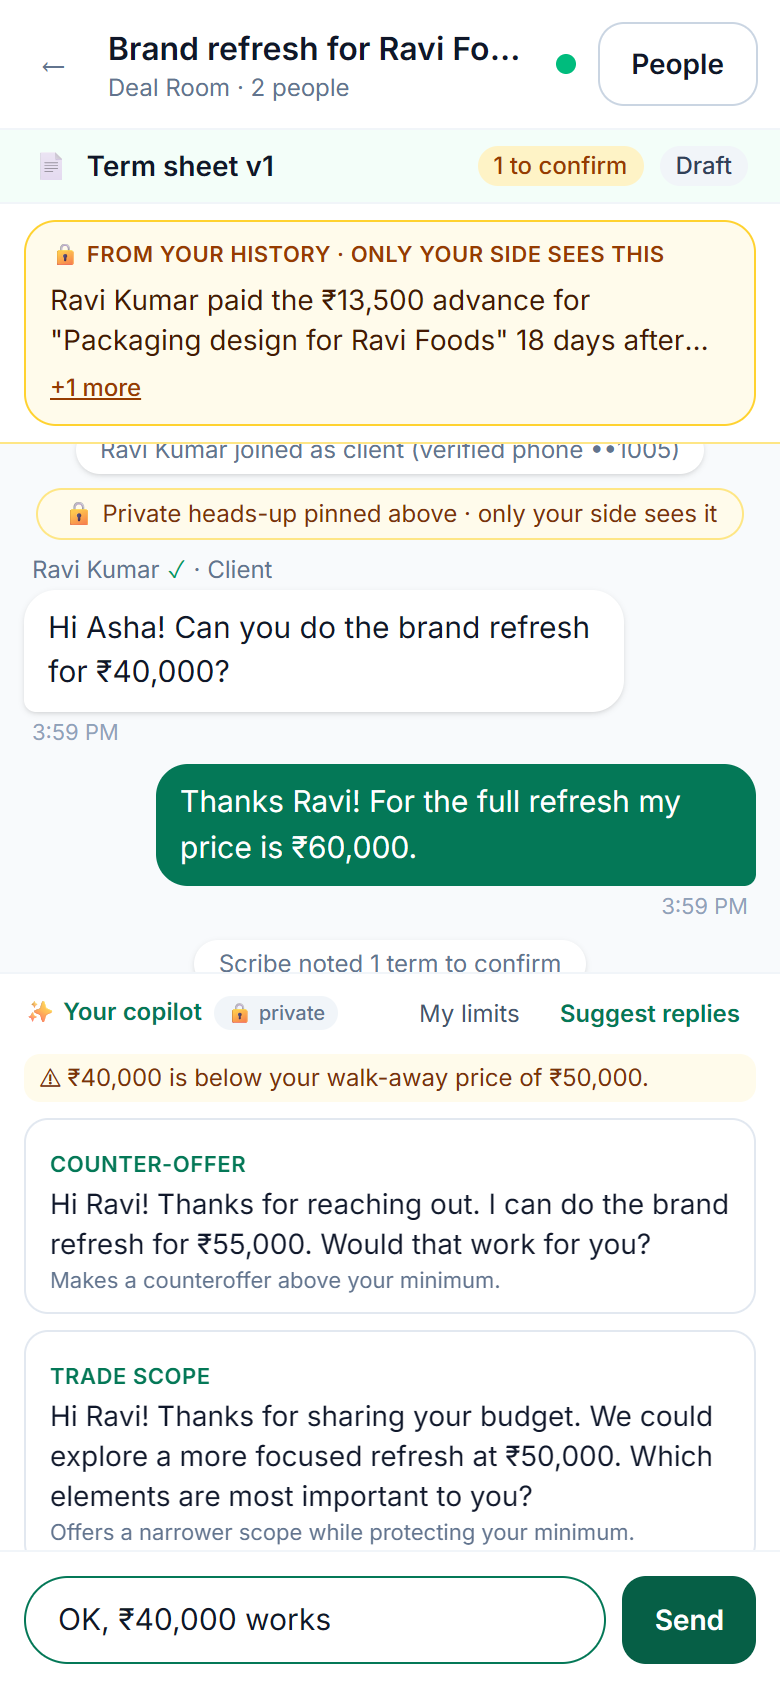
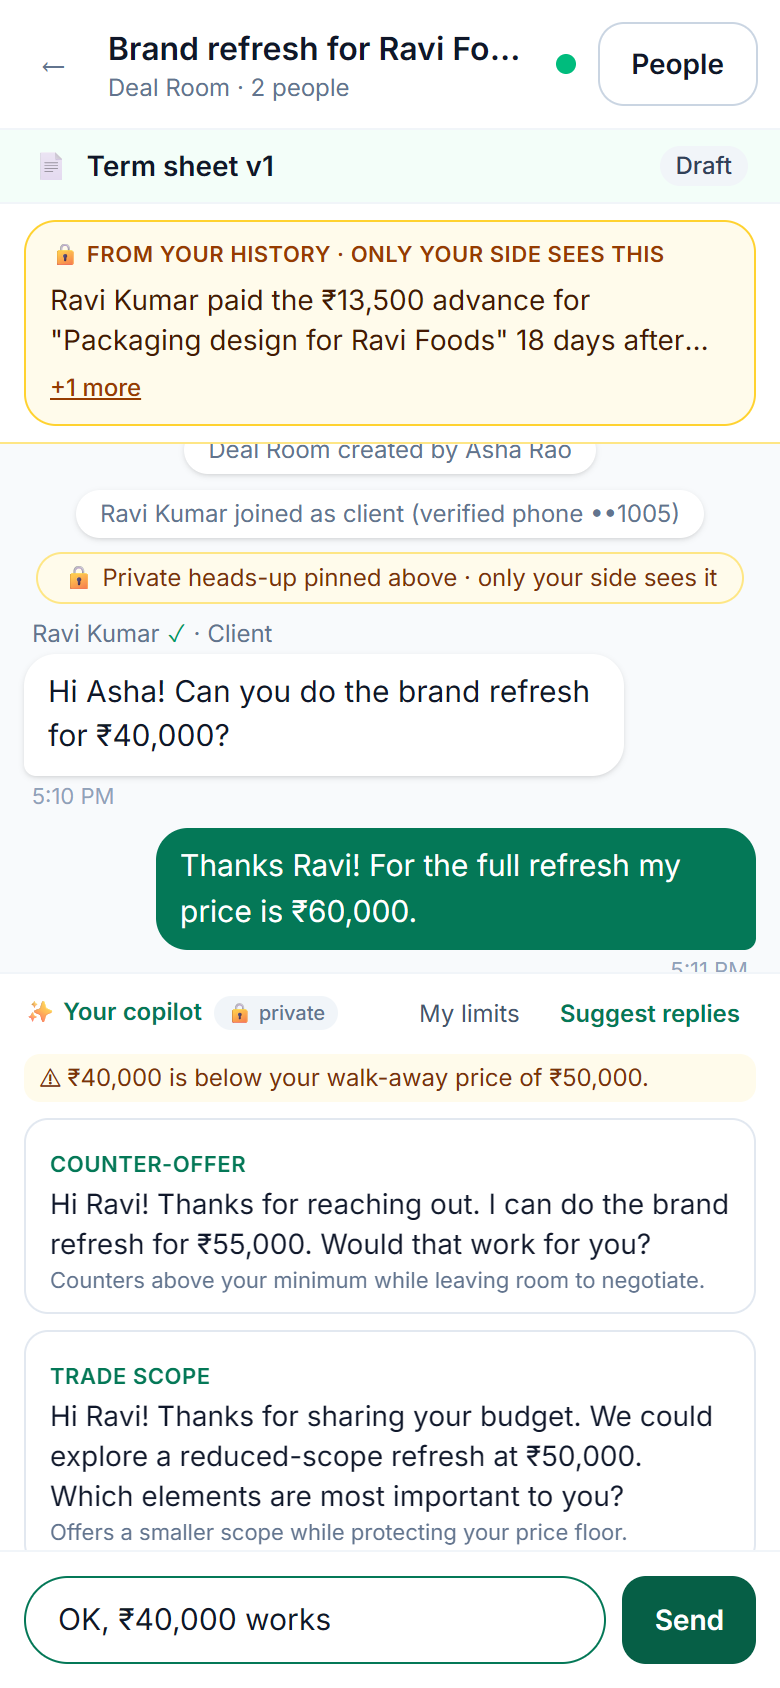
Copilot is for the freelancer's side only; clients get the term sheet card, OTP signing and a verified payment link
- Copilot suggest, feedback and private limits return 403 for the client side; no model call is made for them
- Clients keep the clause explainer and the pre-send safety warnings (OTPs or bank details in chat)
- Tests, demo script, README, technical doc, privacy notice and screenshots updated

diff --git a/apps/web/src/pages/RoomPage.tsx b/apps/web/src/pages/RoomPage.tsx
@@ -398,7 +398,20 @@ export default function RoomPage() {
             <ErrorText>{error}</ErrorText>
           </div>
         )}
-        {isDeal && room?.my_side && (
+        {isDeal && room?.my_side === 'client' && warnings.length > 0 && (
+          <ul className="space-y-1 border-t border-slate-100 bg-white px-3 pt-2" aria-live="polite">
+            {warnings.map((w) => (
+              <li
+                key={w.code}
+                className={`rounded-lg px-2 py-1 text-xs ${w.level === 'warn' ? 'bg-amber-50 text-amber-900' : 'bg-slate-50 text-slate-600'}`}
+              >
+                {w.level === 'warn' ? '⚠ ' : 'ℹ '}
+                {w.message}
+              </li>
+            ))}
+          </ul>
+        )}
+        {isDeal && room?.my_side === 'provider' && (
           <CopilotBar
             roomId={roomId}
             side={room.my_side}

diff --git a/apps/web/src/pages/JoinPage.tsx b/apps/web/src/pages/JoinPage.tsx
@@ -65,7 +65,7 @@ export default function JoinPage() {
         <ul className="space-y-2 rounded-2xl bg-slate-50 p-4 text-sm text-slate-700">
           <li>You will see only this room, never their other deals.</li>
           <li>Everyone in the room sees your name and the last 4 digits of your verified phone.</li>
-          <li>Your AI copilot is private to you; the other side never sees it.</li>
+          <li>What you agree becomes a term sheet you both sign with an OTP, and you pay through a verified link.</li>
         </ul>
         <ErrorText>{error}</ErrorText>
         <Button onClick={() => void accept()} busy={busy}>

diff --git a/apps/web/src/pages/Privacy.tsx b/apps/web/src/pages/Privacy.tsx
@@ -24,7 +24,7 @@ const SECTIONS: { title: string; body: string[] }[] = [
     title: 'Who can see it',
     body: [
       'People in a room see that room only. Guests never see a team’s other rooms.',
-      'Your AI copilot, private floor price and notes are visible only to you.',
+      'The AI copilot, private floor price and notes are visible only to their owner on the freelancer side.',
       'Bank and UPI details are encrypted at rest and shown masked to the last 4 characters.',
       'Chat is delivered through Nexconn, our messaging provider. We do not sell your data.',
     ],

diff --git a/services/api/tests/test_copilot.py b/services/api/tests/test_copilot.py
@@ -9,10 +9,9 @@ OPTIONS = [
 
 def _profiles(client, owner, guest, room):
     url = f"/api/rooms/{room['id']}/copilot/profile"
-    client.put(url, json={"walk_away_paise": 4_500_000, "notes": "FREELANCER-SECRET rent due"},
-               headers=owner["headers"])
-    client.put(url, json={"walk_away_paise": 5_500_000, "notes": "CLIENT-SECRET board approved 55k"},
-               headers=guest["headers"])
+    r = client.put(url, json={"walk_away_paise": 4_500_000, "notes": "FREELANCER-SECRET rent due"},
+                   headers=owner["headers"])
+    assert r.status_code == 200
 
 
 def test_copilot_streams_options_and_records_suggestion(client, login_as, llm):
@@ -27,7 +26,7 @@ def test_copilot_streams_options_and_records_suggestion(client, login_as, llm):
     sid = events[-1].split('"suggestion_id": "')[1].split('"')[0]
     url = f"/api/rooms/{room['id']}/copilot/suggestions/{sid}/feedback"
     assert client.post(url, json={"chosen_index": 1, "outcome": "edited"}, headers=owner["headers"]).status_code == 204
-    assert client.post(url, json={"chosen_index": 1, "outcome": "sent"}, headers=guest["headers"]).status_code == 404
+    assert client.post(url, json={"chosen_index": 1, "outcome": "sent"}, headers=guest["headers"]).status_code == 403
 
 
 def test_copilot_offline_degrades_gracefully(client, login_as, llm):
@@ -37,18 +36,20 @@ def test_copilot_offline_degrades_gracefully(client, login_as, llm):
     assert r.status_code == 200 and "event: error" in r.text and "offline" in r.text
 
 
-def test_client_copilot_context_has_no_freelancer_side_data(client, login_as, llm):
+def test_copilot_is_only_for_the_freelancer_side(client, login_as, llm):
     owner, guest, _, room = setup_deal(client, login_as)
     _profiles(client, owner, guest, room)
-    say(client, owner, room, "Full kit is 60k.")
-    llm.queue("copilot", OPTIONS, OPTIONS)
-    client.post(f"/api/rooms/{room['id']}/copilot/suggest", json={}, headers=guest["headers"])
-    client.post(f"/api/rooms/{room['id']}/copilot/suggest", json={}, headers=owner["headers"])
-    guest_ctx, owner_ctx = [c["data"] for c in llm.calls if c["purpose"] == "copilot"]
-    assert "CLIENT-SECRET" in guest_ctx and "₹55,000" in guest_ctx
-    assert "FREELANCER-SECRET" not in guest_ctx and "₹45,000" not in guest_ctx
-    assert "FREELANCER-SECRET" in owner_ctx and "CLIENT-SECRET" not in owner_ctx and "₹55,000" not in owner_ctx
-    assert "untrusted_data" in guest_ctx
+    say(client, guest, room, "Can we do 50k?")
+    base = f"/api/rooms/{room['id']}/copilot"
+    assert client.post(f"{base}/suggest", json={}, headers=guest["headers"]).status_code == 403
+    assert client.get(f"{base}/profile", headers=guest["headers"]).status_code == 403
+    r = client.put(f"{base}/profile", json={"walk_away_paise": 5_500_000, "notes": "CLIENT"}, headers=guest["headers"])
+    assert r.status_code == 403
+    assert not [c for c in llm.calls if c["purpose"] == "copilot"], "no model call is made for the client"
+    llm.queue("copilot", OPTIONS)
+    assert client.post(f"{base}/suggest", json={}, headers=owner["headers"]).status_code == 200
+    owner_ctx = [c["data"] for c in llm.calls if c["purpose"] == "copilot"][0]
+    assert "FREELANCER-SECRET" in owner_ctx and "untrusted_data" in owner_ctx
 
 
 def test_presend_warns_but_never_blocks(client, login_as):
@@ -58,7 +59,7 @@ def test_presend_warns_but_never_blocks(client, login_as):
     codes = lambda who, text: {w["code"] for w in client.post(url, json={"draft": text}, headers=who["headers"]).json()}  # noqa: E731
     assert "below_walk_away" in codes(owner, "Okay, 40k final")
     assert codes(owner, "Okay, 50k final") == set()
-    assert "above_budget" in codes(guest, "We can stretch to 60k")
+    assert codes(guest, "We can stretch to 60k") == set()
     assert {"no_advance", "unlimited_revisions"} <= codes(owner, "No advance needed, unlimited revisions")
     assert "secret" in codes(guest, "my OTP is 482913")
     say(client, owner, room, "Okay, 40k final")

diff --git a/services/api/app/routers/copilot.py b/services/api/app/routers/copilot.py
@@ -54,10 +54,21 @@ class ExplainOut(C.ClauseExplanation):
     disclaimer: str = "General information, not legal advice."
 
 
+COPILOT_SIDE_ONLY = "The negotiation copilot is for the freelancer's side of the deal"
+
+
 def _participant(db: Session, user: User, room_id: str) -> tuple[Room, RoomMember]:
     room, _, member = room_access(db, user, room_id)
     require_deal_room(room)
     return room, require_participant(member)
+
+
+def _provider(db: Session, user: User, room_id: str) -> tuple[Room, RoomMember]:
+    """Reply suggestions and private limits are for the freelancer's side; clients get the contract and payment."""
+    room, member = _participant(db, user, room_id)
+    if member.side != "provider":
+        raise HTTPException(status.HTTP_403_FORBIDDEN, COPILOT_SIDE_ONLY)
+    return room, member
 
 
 def _sse(event: str, data: dict) -> str:
@@ -68,7 +79,7 @@ def _sse(event: str, data: dict) -> str:
 def suggest(room_id: str, body: SuggestIn, user: User = Depends(current_user), db: Session = Depends(get_db),
             llm: LLM = Depends(get_llm_dep)) -> StreamingResponse:
     """Streams up to three reply options as server-sent events, private to the caller."""
-    room, member = _participant(db, user, room_id)
+    room, member = _provider(db, user, room_id)
     role = getattr(membership_for(db, user.id, room.org_id), "role", None)
     data = C.build_context(db, room, user, member, llm, role).render()
     db.commit()
@@ -101,7 +112,7 @@ def suggest(room_id: str, body: SuggestIn, user: User = Depends(current_user), d
              dependencies=[Depends(rate_limit("feedback", 120, 60))])
 def feedback(room_id: str, suggestion_id: str, body: FeedbackIn, user: User = Depends(current_user),
              db: Session = Depends(get_db)) -> None:
-    room, _ = _participant(db, user, room_id)
+    room, _ = _provider(db, user, room_id)
     s = db.get(CopilotSuggestion, suggestion_id)
     if s is None or s.room_id != room.id or s.user_id != user.id:
         raise HTTPException(status.HTTP_404_NOT_FOUND, "Not found")

diff --git a/services/api/tests/test_memory.py b/services/api/tests/test_memory.py
@@ -50,10 +50,10 @@ def test_late_advance_warns_the_team_on_the_next_deal_only(client, login_as, sen
     say(client, guest, second, "Shall we start?")
     llm.queue("copilot", OPTIONS, OPTIONS)
     client.post(f"/api/rooms/{second['id']}/copilot/suggest", json={}, headers=owner["headers"])
-    client.post(f"/api/rooms/{second['id']}/copilot/suggest", json={}, headers=guest["headers"])
-    owner_ctx, guest_ctx = [c["data"] for c in llm.calls if c["purpose"] == "copilot"]
+    r = client.post(f"/api/rooms/{second['id']}/copilot/suggest", json={}, headers=guest["headers"])
+    assert r.status_code == 403
+    owner_ctx = [c["data"] for c in llm.calls if c["purpose"] == "copilot"][0]
     assert "15 days late" in owner_ctx
-    assert "15 days late" not in guest_ctx and "counterparty" not in guest_ctx
 
 
 def test_deal_outcome_becomes_team_playbook_not_client_memory(client, login_as, sent_codes, db, llm):
@@ -76,9 +76,11 @@ def test_deal_outcome_becomes_team_playbook_not_client_memory(client, login_as, 
     say(client, guest, second, "What would a website cost?")
     llm.queue("copilot", OPTIONS, OPTIONS)
     client.post(f"/api/rooms/{second['id']}/copilot/suggest", json={}, headers=owner["headers"])
-    client.post(f"/api/rooms/{second['id']}/copilot/suggest", json={}, headers=guest["headers"])
-    owner_ctx, guest_ctx = [c["data"] for c in llm.calls if c["purpose"] == "copilot"]
-    assert "was won" in owner_ctx and "was won" not in guest_ctx
+    r = client.post(f"/api/rooms/{second['id']}/copilot/suggest", json={}, headers=guest["headers"])
+    assert r.status_code == 403
+    owner_ctx = [c["data"] for c in llm.calls if c["purpose"] == "copilot"][0]
+    assert "was won" in owner_ctx
+    assert deal(client, guest, second)["counterparty_notes"] == []
 
 
 def test_memory_works_without_embeddings(client, login_as, sent_codes, db, llm):

diff --git a/services/api/app/routers/deals.py b/services/api/app/routers/deals.py
@@ -304,6 +304,8 @@ def decide(room_id: str, proposal_id: str, decision: str, user: User = Depends(c
 @router.get("/{room_id}/copilot/profile", response_model=ProfileOut)
 def get_profile(room_id: str, user: User = Depends(current_user), db: Session = Depends(get_db)) -> ProfileOut:
     room, member = _context(db, user, room_id)
+    if member.side != "provider":
+        raise HTTPException(status.HTTP_403_FORBIDDEN, "Private limits are for the freelancer's side of the deal")
     p = db.get(CopilotProfile, (room.id, user.id))
     return ProfileOut(side=member.side, walk_away_paise=p.walk_away_paise if p else None,
                       target_paise=p.target_paise if p else None, notes=p.notes if p else None)
@@ -314,6 +316,8 @@ def get_profile(room_id: str, user: User = Depends(current_user), db: Session = 
 def put_profile(room_id: str, body: ProfileIn, user: User = Depends(current_user),
                 db: Session = Depends(get_db)) -> ProfileOut:
     room, member = _context(db, user, room_id)
+    if member.side != "provider":
+        raise HTTPException(status.HTTP_403_FORBIDDEN, "Private limits are for the freelancer's side of the deal")
     p = db.get(CopilotProfile, (room.id, user.id)) or CopilotProfile(room_id=room.id, user_id=user.id)
     p.walk_away_paise, p.target_paise = body.walk_away_paise, body.target_paise
     p.notes = " ".join(body.notes.split()) if body.notes else None

diff --git a/services/api/app/demo.py b/services/api/app/demo.py
@@ -45,7 +45,7 @@ SCRIPT = [
     Step("Deal Room on two phones", "Phone A: Asha · Phone B: Ravi", (
         "Asha: + Deal Room “Brand refresh for Ravi Foods”, then People → Invite your client.",
         "Ravi opens the link on phone B and joins. Asha privately sees: Ravi paid the last advance 15 days late.",
-        "Asha: Limits → walk-away ₹50,000. Ravi: “Can you do it for ₹40,000?” Both get different copilot options.",
+        "Asha: Limits → walk-away ₹50,000. Ravi: “Can you do it for ₹40,000?” Asha's private copilot suggests replies.",
         "Asha types “OK, ₹40,000 works” and the pre-send check warns it is below her walk-away.",
         "Agree: “₹55,000, 40% advance, 3 weeks, 3 revisions”. Confirm the Scribe's terms; open the fair-price meter.",
         "Both sign with OTP, the sheet locks, Asha requests the advance and Ravi pays (simulated).",

diff --git a/services/api/tests/test_deal_room.py b/services/api/tests/test_deal_room.py
@@ -87,8 +87,8 @@ def test_private_profile_is_never_visible_to_the_other_side(client, login_as):
     r = client.put(url, json={"walk_away_paise": 4_500_000, "target_paise": 6_000_000, "notes": "Need cash flow"},
                    headers=owner["headers"])
     assert r.status_code == 200
-    mine = client.get(url, headers=guest["headers"]).json()
-    assert mine["walk_away_paise"] is None and mine["notes"] is None and mine["side"] == "client"
+    assert client.get(url, headers=guest["headers"]).status_code == 403
+    assert "Need cash flow" not in str(client.get(f"/api/rooms/{room['id']}/deal", headers=guest["headers"]).json())
     assert client.put(url, json={"walk_away_paise": 0}, headers=owner["headers"]).status_code == 422
 
 

diff --git a/README.md b/README.md
@@ -9,8 +9,8 @@ are agreed in chat and payment instructions arrive in chat, but no tool in that 
 does: it turns what people agree into a signed term sheet, and turns every payment request into a verified,
 risk-checked card that a chat message can never execute.
 
-- **Deal Room (money in):** freelancer and client negotiate in one room, each with a private AI copilot. Agreed
-  terms fill a live term sheet, both sides sign it with OTP, and the advance is requested through a payment link.
+- **Deal Room (money in):** freelancer and client negotiate in one room. The freelancer gets a private AI copilot;
+  the client gets a clear term sheet to sign with OTP and a verified payment link for the advance.
 - **Pay Lane (money out):** the team's only valid channel for outgoing payments. Payment cards come only from
   verified people, are risk-checked, re-confirmed by the requester with an OTP when risky, approved by two people,
   then paid.
@@ -36,7 +36,7 @@ on severity, frequency and market size) ranks this at the top of B2B services [1
 
 | Fix My Itch problem (exact wording) | Itch score | What Pakkaa does |
 |---|---|---|
-| Why can't SMEs negotiate favorable payment terms with large buyers? | **82.8** (highest in B2B Services) | A private copilot per side, a fair-price meter and a term sheet both sides sign |
+| Why can't SMEs negotiate favorable payment terms with large buyers? | **82.8** (highest in B2B Services) | A private negotiation copilot, a fair-price meter and a term sheet both sides sign |
 | Why do freelancers ghost projects after partial payments without accountability systems? | **76** | Every agreed term is signed with OTP and kept with the chat message it came from |
 | Why can't businesses verify new suppliers before purchasing? | **76** | Payees are checked and scored before any money moves |
 | Why do micro-SMEs waste 10+ hours weekly on invoice management? | **67.5** | Terms, advance link and payment status live in one room |
@@ -85,7 +85,7 @@ risk-checked cards that chat text can never execute.
 
 | | Feature | The problem it answers |
 |---|---|---|
-| 1 | **Two private copilots in one room.** Each side gets three live reply options with a tactic (hold price, trade scope, ask a question) and a one-line why. Neither copilot ever sees the other side's limits, notes or suggestions. | Small sellers negotiating alone against bigger buyers (Fix My Itch 82.8) |
+| 1 | **A private negotiation copilot for the freelancer.** Three live reply options with a tactic (hold price, trade scope, ask a question) and a one-line why, using the freelancer's private walk-away price and past deals. The client never sees it; the client gets the signed term sheet and a verified payment link. | Small sellers negotiating alone against bigger buyers (Fix My Itch 82.8) |
 | 2 | **Chat becomes a signed term sheet.** The Scribe reads the chat and proposes price, advance, timeline and revisions, quoting the message each came from; a person confirms each one. Both sides sign the exact version with an OTP and a SHA-256 fingerprint; any later change needs both again. A pre-send check warns before you reply below your walk-away price. | Deals agreed in chat, then disputed or ghosted (Fix My Itch 76) |
 | 3 | **Pakkaa remembers who pays late.** When a known client joins a new deal, only your side sees a heads-up such as "paid the last advance 15 days late". A fair-price meter compares the offer with your own past deals. | Late payment, ₹33,005 crore stuck in MSME delayed-payment cases |
 | 4 | **Chat can never move money.** A payment instruction typed in chat becomes an unverified draft that can never be approved or paid. Payments start only as cards raised by verified team members, and a lookalike account using the owner's name is flagged. | The "fake boss on WhatsApp" fraud (₹10.4 crore, Mumbai, June 2026) |
@@ -109,8 +109,8 @@ Screens from a real two-phone run of the demo script (demo mode, simulated payme
 <img src="docs/screenshots/03-private-heads-up.png" width="440"><br>
 *Ravi joins. Asha privately sees that he paid the last advance late; Ravi never sees it.*
 
-<img src="docs/screenshots/04-private-copilots.png" width="440"><br>
-*Each side gets its own copilot with different reply options; neither sees the other's.*
+<img src="docs/screenshots/04-freelancer-copilot.png" width="440"><br>
+*Asha's private copilot suggests replies; Ravi sees the same chat and the shared term sheet, never her copilot.*
 
 | Pre-send check warns below the walk-away price | Scribe turns chat into terms a person confirms |
 |---|---|
@@ -151,8 +151,8 @@ Screens from a real two-phone run of the demo script (demo mode, simulated payme
 **Deal Room**
 - Term sheet card pinned in the room; every term keeps the chat message it came from.
 - Scribe reads each message and proposes terms with a quote and confidence; a person confirms each one.
-- Private copilot per person: three streamed reply options with a tactic and a one-line why. It sees only its
-  owner's side (the other side's limits, notes and suggestions never enter its context).
+- Private copilot for the freelancer's side: three streamed reply options with a tactic and a one-line why. The
+  client never sees it and has no copilot; the client gets the term sheet card, OTP signing and a verified payment link.
 - Pre-send check against your walk-away price and the term sheet: it warns, never blocks.
 - Fair-price meter from your own past deals, then an indicative rate band labelled with its source and date.
 - Clause explainer in English, Hindi or Hinglish; lock review lists missing or risky terms.
@@ -223,7 +223,7 @@ one-time code appears on screen.
 | 98765 01009 | "Asha Rao" | Impostor vendor using the owner's name |
 
 1. **Deal Room:** Asha creates a deal and invites Ravi; when he joins, only Asha sees that Ravi paid the last
-   advance 15 days late. Both copilots suggest different replies; the pre-send check warns below the walk-away;
+   advance 15 days late. Asha's copilot suggests replies; the pre-send check warns below her walk-away;
    the Scribe fills the term sheet; both sign with OTP; Ravi pays the advance (simulated).
 2. **Pay Lane:** the impostor's "urgent, confidential" transfer becomes an unverified draft at risk 100. Asha's
    card for Kabir is high risk (bank details changed), so Asha confirms it with an OTP; Farah reads the approver
@@ -296,7 +296,7 @@ npx tsc -b
 112 API tests run against a real Postgres database (`pakkaa_test`, created by `scripts/dev_db.py` or Docker, or
 set `TEST_DATABASE_URL`), with every model request mocked. They include the red-team cases: impostor payouts, chat
 commands to approve, self-approval, approvals reset on edit, bank change with urgency (step-up OTP required),
-copilot privacy between sides, double payouts, audit tampering, cross-org access, payouts while frozen, and learning
+copilot only for the freelancer's side, double payouts, audit tampering, cross-org access, payouts while frozen, and learning
 never loosening.
 
 ## Limitations

diff --git a/docs/TECHNICAL.md b/docs/TECHNICAL.md
@@ -33,8 +33,8 @@
 | Rooms and chat | Each room is a Nexconn group; messages go through our API, are stored, then delivered live by Nexconn | Nexconn server API (signed requests) + Web Chat SDK `@nexconn/chat` |
 | Cards in chat | Term sheets, payment cards and notices are a custom Nexconn message type `PK:Card` posted by the Pakkaa bot; private notices use directed messages only one person receives | Nexconn custom message type, directed messages |
 | Guest invites | Single-use links that expire in 72 hours; the token is stored only as an HMAC; the guest verifies their phone before joining | HMAC-SHA256, Postgres |
-| Private copilot | Builds context only from what its owner can see, then streams three reply options with tactic and reason as they are generated | OpenAI `gpt-6.1-terra` (no reasoning, ~1 s to first token), Server-Sent Events, pydantic |
-| Pre-send check | Compares amounts in your draft with your walk-away price and the term sheet; spots "no advance", "unlimited revisions", OTPs and bank details | Pure Python rules and regex (no AI), runs 0.4 s after you stop typing |
+| Private copilot (freelancer side only) | Builds context only from what the freelancer can see, then streams three reply options with tactic and reason as they are generated; clients get a 403 and no model call is made for them | OpenAI `gpt-6.1-terra` (no reasoning, ~1 s to first token), Server-Sent Events, pydantic |
+| Pre-send check | Freelancer: compares amounts with the walk-away price and the term sheet, spots "no advance" and "unlimited revisions". Both sides: warns before sharing OTPs, PINs or bank details in chat | Pure Python rules and regex (no AI), runs 0.4 s after you stop typing |
 | Scribe | After each message, proposes term updates with the quote they came from and a confidence; a person confirms each one; past corrections are fed back as examples | OpenAI `gpt-6.2-sol`, pydantic schema, FastAPI background task |
 | Fair-price meter | Your own past locked deals first; otherwise an indicative rate band for the category, shown with its source and date | Python, YAML rule pack with `source` and `as_of` |
 | Clause explainer | Plain-language meaning in English, Hindi or Hinglish, and whether the clause is standard | OpenAI `gpt-6.2-sol`, pydantic |
@@ -88,8 +88,8 @@ tactic you pick most often moves to the top. The pre-send check and the risk eng
 work fully from the first message.
 
 Pakkaa deliberately does not research the client outside the workspace: scraping someone's network without
-consent would conflict with India's Digital Personal Data Protection Act and with the promise that each side's
-copilot sees only its own side. A natural next step is opt-in, public-register checks such as GSTIN status.
+consent would conflict with India's Digital Personal Data Protection Act and with the promise that the copilot
+sees only its owner's side. A natural next step is opt-in, public-register checks such as GSTIN status.
 
 ## Message path
 
